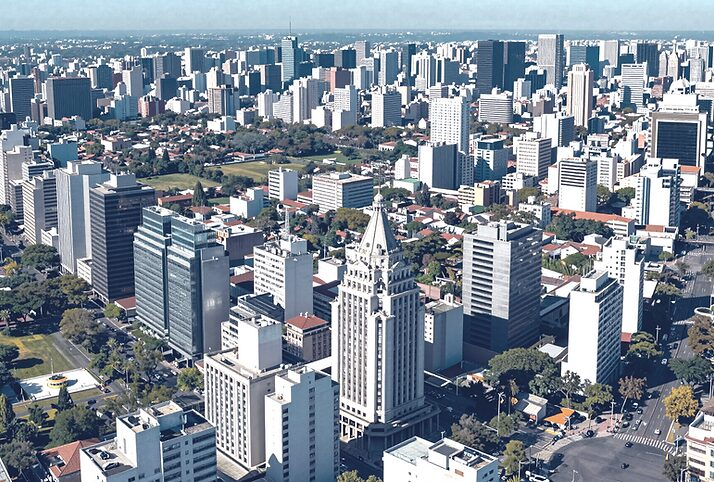
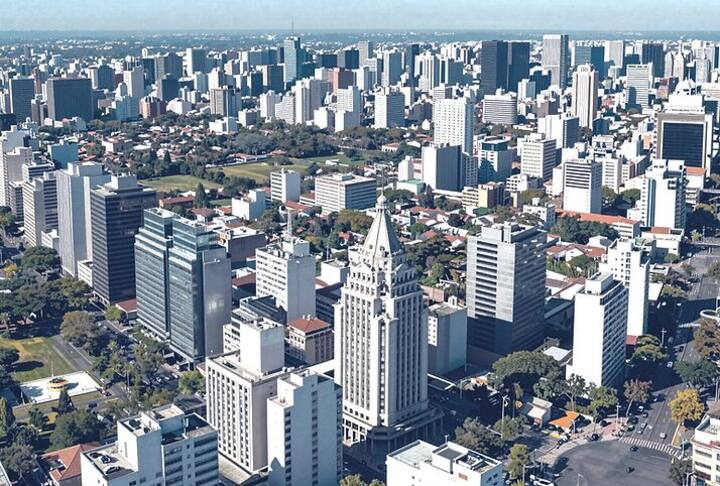
Add files via upload

diff --git a/index.html b/index.html
@@ -42,7 +42,7 @@
   a{color:inherit;text-decoration:none;}
   img{max-width:100%;display:block;}
   ul{list-style:none;}
-  .wrap{max-width:min(1320px, 94vw);margin:0 auto;padding:0 clamp(20px, 3vw, 40px);}
+  .wrap{max-width:min(1560px, 92vw);margin:0 auto;padding:0 clamp(20px, 3vw, 48px);}
   .icon{width:1em; height:1em; display:inline-block; vertical-align:-2px;}
   a:focus-visible, button:focus-visible{outline:3px solid var(--amber); outline-offset:2px;}
 
@@ -122,7 +122,7 @@
   .standard-section{background:var(--fog); padding:clamp(48px,8vw,80px) 0;}
   .standard-inner{display:grid; grid-template-columns:0.85fr 1.15fr; gap:clamp(28px,5vw,48px); align-items:center;}
   .standard-box{background:var(--navy); aspect-ratio:1/1; display:flex; align-items:center; padding:clamp(32px,5vw,48px) clamp(28px,5vw,40px);}
-  .standard-box h2{color:var(--mist); font-size:clamp(1.9rem, 4vw, 3rem);}
+  .standard-box h2{color:var(--mist); font-size:clamp(2.4rem, 5.5vw, 3.8rem);}
   .standard-text p{color:rgba(255,255,255,0.92); font-size:1rem; margin-bottom:24px; max-width:520px;}
   .standard-text ul{display:flex; flex-direction:column; gap:12px;}
   .standard-text li{color:#fff; font-weight:600; font-size:0.95rem; padding-left:20px; position:relative;}
@@ -140,6 +140,8 @@
   /* Animaciones de aparición */
   .reveal{opacity:0; transform:translateY(24px); transition:opacity .7s ease, transform .7s ease;}
   .reveal.in-view{opacity:1; transform:translateY(0);}
+  .reveal-left{opacity:0; transform:translateX(-60px); transition:opacity .8s ease, transform .8s ease;}
+  .reveal-left.in-view{opacity:1; transform:translateX(0);}
   .reveal-delay-1{transition-delay:.08s;}
   .reveal-delay-2{transition-delay:.16s;}
   .reveal-delay-3{transition-delay:.24s;}
@@ -162,12 +164,13 @@
   @media (prefers-reduced-motion: reduce){
     *{transition:none !important; scroll-behavior:auto !important;}
     .reveal{opacity:1 !important; transform:none !important;}
+    .reveal-left{opacity:1 !important; transform:none !important;}
   }
 </style>
 <script>
   document.addEventListener('DOMContentLoaded', function(){
     if(window.matchMedia('(prefers-reduced-motion: reduce)').matches) return;
-    const els = document.querySelectorAll('.reveal');
+    const els = document.querySelectorAll('.reveal, .reveal-left');
     const obs = new IntersectionObserver((entries)=>{
       entries.forEach(e=>{
         if(e.isIntersecting){ e.target.classList.add('in-view'); obs.unobserve(e.target); }
@@ -279,10 +282,10 @@
 
 <section class="standard-section">
   <div class="wrap standard-inner">
-    <div class="standard-box reveal">
+    <div class="standard-box reveal-left">
       <h2>El estándar<br>Exteman</h2>
     </div>
-    <div class="standard-text reveal reveal-delay-1">
+    <div class="standard-text reveal-left reveal-delay-2">
       <p>En EXTEMAN creemos que un buen servicio no se mide solo por el resultado, sino también por la forma de trabajar. Por eso respondemos con rapidez, cumplimos los plazos acordados y realizamos cada tarea con responsabilidad, orden y atención al detalle. Nuestro compromiso es ofrecer soluciones técnicas confiables para empresas, comercios y particulares.</p>
       <ul>
         <li>Atención personalizada.</li>

diff --git a/contacto.html b/contacto.html
@@ -30,7 +30,7 @@
   .mono{font-family:'IBM Plex Mono', monospace;}
   a{color:inherit;text-decoration:none;}
   img{max-width:100%;display:block;}
-  .wrap{max-width:min(1320px, 94vw);margin:0 auto;padding:0 clamp(20px, 3vw, 40px);}
+  .wrap{max-width:min(1560px, 92vw);margin:0 auto;padding:0 clamp(20px, 3vw, 48px);}
   .icon{width:1em; height:1em; display:inline-block; vertical-align:-2px;}
   a:focus-visible, button:focus-visible, input:focus-visible, textarea:focus-visible{outline:3px solid var(--amber); outline-offset:2px;}
 
@@ -50,7 +50,7 @@
   .coverage-photo-wrap img{width:100%; height:100%; object-fit:cover;}
 
   .contact-hero{background:var(--fog); padding:clamp(40px, 8vw, 64px) 0;}
-  .contact-hero h1{color:var(--white); font-size:clamp(2rem, 5vw, 2.8rem); max-width:640px; margin-bottom:clamp(28px,5vw,40px);}
+  .contact-hero h1{color:var(--white); font-size:clamp(2rem, 5vw, 2.8rem); max-width:none; margin-bottom:clamp(28px,5vw,40px);}
 
   .hero-grid{display:grid; grid-template-columns:1fr 1fr; gap:clamp(24px,4vw,48px); align-items:stretch; margin-bottom:clamp(32px,5vw,44px);}
 
@@ -192,7 +192,7 @@
           <span class="label mono">Zona de cobertura</span>
           <p class="value" style="margin-bottom:12px;">República Argentina.</p>
           <div class="coverage-photo-wrap">
-            <img src="assets/coverage-1.jpg" alt="Cobertura Exteman - Argentina" loading="lazy" width="714" height="482">
+            <img src="assets/coverage-1.jpg" alt="Cobertura Exteman - Argentina" width="714" height="482">
           </div>
         </div>
       </div>